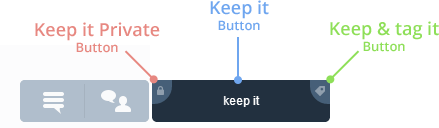
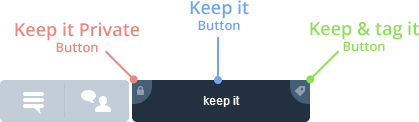
onboarding images updated

diff --git a/kifi-backend/modules/shoebox/public/css/onboarding.css b/kifi-backend/modules/shoebox/public/css/onboarding.css
@@ -1,1 +1,1 @@
-.notransition{-webkit-transition:none!important;-moz-transition:none!important;-o-transition:none!important;-ms-transition:none!important;transition:none!important}.kifi-onboarding-shade{position:fixed;top:0;left:0;width:100%;height:100%;background:#b3bfce;background:rgba(0,40,90,.3);-webkit-opacity:0;-moz-opacity:0;opacity:0;-webkit-transition:all .3s ease;-moz-transition:all .3s ease;-o-transition:all .3s ease;-ms-transition:all .3s ease;transition:all .3s ease}.kifi-onboarding-shade.visible{-webkit-opacity:1;-moz-opacity:1;opacity:1}.kifi-onboarding-modal{position:relative;font-size:24px;top:4%;width:90%;height:27.208333333333332em;min-width:22.916666666666664em;max-width:47.08333333333333em;margin:0 auto;margin-bottom:5%;border:2px solid #b8c5d2;-webkit-border-radius:5px;-webkit-background-clip:padding-box;-moz-border-radius:5px;-moz-background-clip:padding;border-radius:5px;background-clip:padding-box;color:#979a9e;background:#f9fafb;-webkit-box-shadow:.375em .375em 0 rgba(0,40,90,.2);-moz-box-shadow:.375em .375em 0 rgba(0,40,90,.2);box-shadow:.375em .375em 0 rgba(0,40,90,.2);font-family:'Open Sans',sans-serif;-webkit-font-smoothing:antialiased;text-rendering:optimizeLegibility;text-align:center;-webkit-opacity:0;-moz-opacity:0;opacity:0;-webkit-transition:all .3s ease;-moz-transition:all .3s ease;-o-transition:all .3s ease;-ms-transition:all .3s ease;transition:all .3s ease}.kifi-onboarding-modal.visible{-webkit-opacity:1;-moz-opacity:1;opacity:1}@media (max-width:800px){.kifi-onboarding-modal{font-size:19.200000000000003px}}.kifi-onboarding-pic{position:absolute;top:0;left:0;width:5.125em;height:5.125em;border:.8333333333333333em solid #c6d1d8;background:#fff;-webkit-border-radius:100%;-webkit-background-clip:padding-box;-moz-border-radius:100%;-moz-background-clip:padding;border-radius:100%;background-clip:padding-box;-webkit-transition:all .75s ease;-moz-transition:all .75s ease;-o-transition:all .75s ease;-ms-transition:all .75s ease;transition:all .75s ease;-webkit-transform:translateZ(0);-moz-transform:translateZ(0);-o-transform:translateZ(0);-ms-transform:translateZ(0);transform:translateZ(0);-webkit-backface-visibility:hidden;-moz-backface-visibility:hidden;backface-visibility:hidden;-webkit-perspective:1000;-moz-perspective:1000;perspective:1000;-webkit-transform:translate3d(0,0,0);-moz-transform:translate3d(0,0,0);-o-transform:translate3d(0,0,0);-ms-transform:translate3d(0,0,0);transform:translate3d(0,0,0);z-index:1}.kifi-onboarding-modal.page-1 .kifi-onboarding-pic,.kifi-onboarding-modal.page-7 .kifi-onboarding-pic{border-width:.8333333333333333em;left:50%;top:3.25em;margin-left:-3.395833333333333em}.kifi-onboarding-modal.page-2 .kifi-onboarding-pic,.kifi-onboarding-modal.page-3 .kifi-onboarding-pic,.kifi-onboarding-modal.page-4 .kifi-onboarding-pic,.kifi-onboarding-modal.page-5 .kifi-onboarding-pic,.kifi-onboarding-modal.page-6 .kifi-onboarding-pic{border-width:.41666666666666663em;width:5.541666666666666em;height:5.541666666666666em;left:-1.5833333333333333em;top:-1.2083333333333333em}@media (max-width:680px){.kifi-onboarding-modal.page-2 .kifi-onboarding-pic,.kifi-onboarding-modal.page-3 .kifi-onboarding-pic,.kifi-onboarding-modal.page-4 .kifi-onboarding-pic,.kifi-onboarding-modal.page-5 .kifi-onboarding-pic,.kifi-onboarding-modal.page-6 .kifi-onboarding-pic{width:3.333333333333333em;height:3.333333333333333em}}.kifi-onboarding-header-container{position:relative;overflow:hidden}.kifi-onboarding-header{position:relative;display:inline-block;font-family:Raleway,sans-serif;-webkit-font-smoothing:antialiased;text-rendering:optimizeLegibility;font-size:.8333333333333333em;line-height:2em;margin:0 auto;margin-top:2.1em;color:#737980;text-align:center;-webkit-transition:all .75s ease;-moz-transition:all .75s ease;-o-transition:all .75s ease;-ms-transition:all .75s ease;transition:all .75s ease;-webkit-transform:translateZ(0);-moz-transform:translateZ(0);-o-transform:translateZ(0);-ms-transform:translateZ(0);transform:translateZ(0);-webkit-backface-visibility:hidden;-moz-backface-visibility:hidden;backface-visibility:hidden;-webkit-perspective:1000;-moz-perspective:1000;perspective:1000;-webkit-transform:translate3d(0,0,0);-moz-transform:translate3d(0,0,0);-o-transform:translate3d(0,0,0);-ms-transform:translate3d(0,0,0);transform:translate3d(0,0,0)}.kifi-onboarding-modal.page-1 .kifi-onboarding-header,.kifi-onboarding-modal.page-7 .kifi-onboarding-header{top:-2.1em;-webkit-opacity:0;-moz-opacity:0;opacity:0}.kifi-onboarding-header-section{margin:0 1.3em}.kifi-onboarding-section-bar{position:absolute;bottom:0;width:5.050000000000001em;height:.2em;margin-left:1.3em;background:#c9ea9b;-webkit-transition:all .75s ease;-moz-transition:all .75s ease;-o-transition:all .75s ease;-ms-transition:all .75s ease;transition:all .75s ease;-webkit-transform:translateZ(0);-moz-transform:translateZ(0);-o-transform:translateZ(0);-ms-transform:translateZ(0);transform:translateZ(0);-webkit-backface-visibility:hidden;-moz-backface-visibility:hidden;backface-visibility:hidden;-webkit-perspective:1000;-moz-perspective:1000;perspective:1000;-webkit-transform:translate3d(0,0,0);-moz-transform:translate3d(0,0,0);-o-transform:translate3d(0,0,0);-ms-transform:translate3d(0,0,0);transform:translate3d(0,0,0)}@media (max-width:1024px){.kifi-onboarding-header-section{margin:0 .65em}.kifi-onboarding-section-bar{margin-left:.65em}}.kifi-onboarding-section-progress-bar{position:absolute;top:0;left:0;width:50%;height:100%;background:#92c152;-webkit-transition:all .75s ease;-moz-transition:all .75s ease;-o-transition:all .75s ease;-ms-transition:all .75s ease;transition:all .75s ease;-webkit-transform:translateZ(0);-moz-transform:translateZ(0);-o-transform:translateZ(0);-ms-transform:translateZ(0);transform:translateZ(0);-webkit-backface-visibility:hidden;-moz-backface-visibility:hidden;backface-visibility:hidden;-webkit-perspective:1000;-moz-perspective:1000;perspective:1000;-webkit-transform:translate3d(0,0,0);-moz-transform:translate3d(0,0,0);-o-transform:translate3d(0,0,0);-ms-transform:translate3d(0,0,0);transform:translate3d(0,0,0)}.kifi-onboarding-close{position:absolute;top:.9166666666666666em;right:.9166666666666666em;width:.5416666666666666em;height:.5416666666666666em;background-image:url(/assets/img/onboarding/exit.png);z-index:2}@media (-webkit-min-device-pixel-ratio:1.5),(min--moz-device-pixel-ratio:1.5),(-o-min-device-pixel-ratio:3/2),(min-resolution:1.5dppx){.kifi-onboarding-close{background-image:url(/assets/img/onboarding/exit@2x.png);background-size:100% 100%}}.kifi-onboarding-buttons{position:absolute;bottom:.9166666666666666em;left:.9166666666666666em;right:.9166666666666666em}.kifi-onboarding-buttons a{position:absolute;bottom:0;font-size:.75em;padding:.5em 2.722222222222222em;line-height:2.2222222222222223em;-webkit-border-radius:5px;-webkit-background-clip:padding-box;-moz-border-radius:5px;-moz-background-clip:padding;border-radius:5px;background-clip:padding-box;color:#fff;text-decoration:none;-webkit-transition:background .1s ease;-moz-transition:background .1s ease;-o-transition:background .1s ease;-ms-transition:background .1s ease;transition:background .1s ease}.kifi-onboarding-modal.page-2 .kifi-onboarding-buttons a,.kifi-onboarding-modal.page-3 .kifi-onboarding-buttons a,.kifi-onboarding-modal.page-4 .kifi-onboarding-buttons a,.kifi-onboarding-modal.page-5 .kifi-onboarding-buttons a,.kifi-onboarding-modal.page-6 .kifi-onboarding-buttons a{padding:.5555555555555556em 3.1666666666666665em}.kifi-onboarding-modal.page-2 .kifi-onboarding-buttons a.kifi-onboarding-prev,.kifi-onboarding-modal.page-3 .kifi-onboarding-buttons a.kifi-onboarding-prev,.kifi-onboarding-modal.page-4 .kifi-onboarding-buttons a.kifi-onboarding-prev,.kifi-onboarding-modal.page-5 .kifi-onboarding-buttons a.kifi-onboarding-prev,.kifi-onboarding-modal.page-6 .kifi-onboarding-buttons a.kifi-onboarding-prev{padding:.5555555555555556em 2.611111111111111em}.kifi-onboarding-modal.page-7 .kifi-onboarding-buttons a{padding:.5555555555555556em 4.555555555555555em}.kifi-onboarding-modal.page-7 .kifi-onboarding-buttons a.kifi-onboarding-prev{padding:.5555555555555556em 2.611111111111111em}.kifi-onboarding-next-icon,.kifi-onboarding-heart-icon{position:absolute}.kifi-onboarding-next-icon{top:1.0555555555555556em;right:1.0555555555555556em;width:.5555555555555556em;height:1.222222222222222em;background-image:url(/assets/img/onboarding/arrowright.png);background-size:100%;background-repeat:no-repeat;background-position:top left}@media (-webkit-min-device-pixel-ratio:1.5),(min--moz-device-pixel-ratio:1.5),(-o-min-device-pixel-ratio:3/2),(min-resolution:1.5dppx){.kifi-onboarding-next-icon{background-image:url(/assets/img/onboarding/arrowright@2x.png);background-size:100% 100%}}.kifi-onboarding-heart-icon{top:.9166666666666666em;right:2.1666666666666665em;width:1.722222222222222em;height:1.5em;background-image:url(/assets/img/onboarding/heart2.png);background-size:100%;background-repeat:no-repeat;background-position:top left}@media (-webkit-min-device-pixel-ratio:1.5),(min--moz-device-pixel-ratio:1.5),(-o-min-device-pixel-ratio:3/2),(min-resolution:1.5dppx){.kifi-onboarding-heart-icon{background-image:url(/assets/img/onboarding/heart2@2x.png);background-size:100% 100%}}.kifi-onboarding-prev.kifi-onboarding-prev{left:0;color:#fff;background:#b8c5d2}.kifi-onboarding-prev.kifi-onboarding-prev:hover{background:#bfcbd7}.kifi-onboarding-prev.kifi-onboarding-prev:active{background:#a6b1bd}.kifi-onboarding-modal.page-1 .kifi-onboarding-prev.kifi-onboarding-prev{color:#444;background:#d5dde5}.kifi-onboarding-modal.page-1 .kifi-onboarding-prev.kifi-onboarding-prev:hover{background:#d9e0e8}.kifi-onboarding-modal.page-1 .kifi-onboarding-prev.kifi-onboarding-prev:active{background:#c0c7ce}.kifi-onboarding-next{right:0;background:#6ca4f2}.kifi-onboarding-next:hover{background:#7badf3}.kifi-onboarding-next:active{background:#6194da}.kifi-onboarding-modal.page-1 .kifi-onboarding-button-text{position:relative;left:-5px}.kifi-onboarding-view{position:absolute;top:6.25em;bottom:0;left:0;width:100%;overflow:hidden}.kifi-onboarding-views{position:absolute;top:0;left:0;width:700%;height:100%;-webkit-transition:all .75s ease;-moz-transition:all .75s ease;-o-transition:all .75s ease;-ms-transition:all .75s ease;transition:all .75s ease;-webkit-transform:translateZ(0);-moz-transform:translateZ(0);-o-transform:translateZ(0);-ms-transform:translateZ(0);transform:translateZ(0);-webkit-backface-visibility:hidden;-moz-backface-visibility:hidden;backface-visibility:hidden;-webkit-perspective:1000;-moz-perspective:1000;perspective:1000;-webkit-transform:translate3d(0,0,0);-moz-transform:translate3d(0,0,0);-o-transform:translate3d(0,0,0);-ms-transform:translate3d(0,0,0);transform:translate3d(0,0,0)}.kifi-onboarding-views>div{float:left;width:14.285714285714286%;height:100%;text-align:center}.kifi-onboarding-views h1{font-size:1.5em;font-weight:600;padding:0 .8333333333333333em;margin:0 auto;color:#444;line-height:1.1111111111111112em}.kifi-onboarding-views p{font-size:1em;padding:0 1.25em;margin:0 auto;color:#979a9e;line-height:1.5em}.kifi-onboarding-views img{position:relative;display:block;width:100%;margin:0 auto}.kifi-onboarding-welcome h1,.kifi-onboarding-finish h1{margin-top:3.3611111111111107em}.kifi-onboarding-welcome p{max-width:21.25em}.kifi-onboarding-welcome p,.kifi-onboarding-keeping-1 p,.kifi-onboarding-keeping-2 p,.kifi-onboarding-finding p{margin-top:.8333333333333333em}.kifi-onboarding-keeping-1 h1{position:relative;left:.20833333333333331em}.kifi-onboarding-keeping-1 p{position:relative;left:.6666666666666666em}.kifi-onboarding-keeping-1 img{left:-1.2083333333333333em}.kifi-onboarding-keeping-1 p{max-width:30.625em}.kifi-onboarding-keeping-1 img{max-width:21.208333333333332em;max-height:8.166666666666666em}.kifi-onboarding-keeping-2 h1{position:relative;left:.20833333333333331em}.kifi-onboarding-keeping-2 p{position:relative;left:.6666666666666666em}.kifi-onboarding-keeping-2 img{left:-.125em}.kifi-onboarding-keeping-2 img{max-width:18.291666666666664em;max-height:5.333333333333333em}.kifi-onboarding-keeping-1 img,.kifi-onboarding-keeping-2 img,.kifi-onboarding-finding img{margin-top:2.1666666666666665em;padding:0 1.25em}.kifi-onboarding-finding h1{position:relative;left:.16666666666666666em}.kifi-onboarding-finding p{position:relative;left:.5416666666666666em}.kifi-onboarding-finding img{top:-.5em;left:-.9583333333333333em}.kifi-onboarding-finding p{line-height:1.21;margin-top:.9583333333333333em;max-width:23.958333333333332em}.kifi-onboarding-finding img{max-width:30em;max-height:16.458333333333332em}.kifi-onboarding-chatting h1,.kifi-onboarding-organizing h1{text-align:left}.kifi-onboarding-chatting p,.kifi-onboarding-organizing p{line-height:1.21;margin:0;text-align:left;margin-top:1.25em}.kifi-onboarding-chatting p:last-child,.kifi-onboarding-organizing p:last-child{margin-top:1.375em}.kifi-onboarding-chatting h1{max-width:17.22222222222222em}.kifi-onboarding-chatting p{max-width:16.25em}.kifi-onboarding-chatting img{top:-91px;max-width:16.791666666666664em;max-height:20.125em}.kifi-onboarding-chatting .kifi-onboarding-texts{position:relative;left:.8333333333333333em}.kifi-onboarding-chatting .kifi-onboarding-img{position:relative;left:-2.7916666666666665em;top:.7083333333333333em}.kifi-onboarding-chatting .kifi-onboarding-texts,.kifi-onboarding-chatting .kifi-onboarding-img{display:inline-block;max-width:49%;vertical-align:top}.kifi-onboarding-organizing h1{max-width:11.25em}.kifi-onboarding-organizing p{max-width:16.25em}.kifi-onboarding-organizing .kifi-onboarding-texts{position:relative;left:.125em}.kifi-onboarding-organizing img{max-width:19.083333333333332em;max-height:12.958333333333332em}.kifi-onboarding-organizing .kifi-onboarding-img,.kifi-onboarding-organizing .kifi-onboarding-texts{display:inline-block;max-width:49%;vertical-align:top}.kifi-onboarding-finish h1{position:relative;left:.25em}.kifi-onboarding-finish p{font-family:Raleway,sans-serif;-webkit-font-smoothing:antialiased;text-rendering:optimizeLegibility;position:relative;left:.41666666666666663em;font-size:1.5em;line-height:normal;margin-top:.6388888888888888em;max-width:16.944444444444443em}.kifi-onboarding-quote{display:inline-block;margin:0 auto}.kifi-onboarding-author{text-align:right;font-size:.5em;margin-top:1.3333333333333333em;margin-right:8.083333333333332em}.kifi-onboarding-button-texts{display:none}
+.notransition{-webkit-transition:none!important;-moz-transition:none!important;-o-transition:none!important;-ms-transition:none!important;transition:none!important}.kifi-onboarding-shade{position:fixed;top:0;left:0;width:100%;height:100%;background:#b3bfce;background:rgba(0,40,90,.3);-webkit-opacity:0;-moz-opacity:0;opacity:0;-webkit-transition:all .3s ease;-moz-transition:all .3s ease;-o-transition:all .3s ease;-ms-transition:all .3s ease;transition:all .3s ease}.kifi-onboarding-shade.visible{-webkit-opacity:1;-moz-opacity:1;opacity:1}.kifi-onboarding-modal{position:relative;font-size:24px;top:4%;width:90%;height:27.208333333333332em;min-width:22.916666666666664em;max-width:47.08333333333333em;margin:0 auto;margin-bottom:5%;border:2px solid #b8c5d2;-webkit-border-radius:5px;-webkit-background-clip:padding-box;-moz-border-radius:5px;-moz-background-clip:padding;border-radius:5px;background-clip:padding-box;color:#979a9e;background:#f9fafb;-webkit-box-shadow:.375em .375em 0 rgba(0,40,90,.2);-moz-box-shadow:.375em .375em 0 rgba(0,40,90,.2);box-shadow:.375em .375em 0 rgba(0,40,90,.2);font-family:'Open Sans',sans-serif;-webkit-font-smoothing:antialiased;text-rendering:optimizeLegibility;text-align:center;-webkit-opacity:0;-moz-opacity:0;opacity:0;-webkit-transition:all .3s ease;-moz-transition:all .3s ease;-o-transition:all .3s ease;-ms-transition:all .3s ease;transition:all .3s ease}.kifi-onboarding-modal.visible{-webkit-opacity:1;-moz-opacity:1;opacity:1}@media (max-width:800px){.kifi-onboarding-modal{font-size:19.200000000000003px}}.kifi-onboarding-pic{position:absolute;top:0;left:0;width:5.125em;height:5.125em;border:.8333333333333333em solid #c6d1d8;background:#fff;-webkit-border-radius:100%;-webkit-background-clip:padding-box;-moz-border-radius:100%;-moz-background-clip:padding;border-radius:100%;background-clip:padding-box;-webkit-transition:all .75s ease;-moz-transition:all .75s ease;-o-transition:all .75s ease;-ms-transition:all .75s ease;transition:all .75s ease;-webkit-transform:translateZ(0);-moz-transform:translateZ(0);-o-transform:translateZ(0);-ms-transform:translateZ(0);transform:translateZ(0);-webkit-backface-visibility:hidden;-moz-backface-visibility:hidden;backface-visibility:hidden;-webkit-perspective:1000;-moz-perspective:1000;perspective:1000;-webkit-transform:translate3d(0,0,0);-moz-transform:translate3d(0,0,0);-o-transform:translate3d(0,0,0);-ms-transform:translate3d(0,0,0);transform:translate3d(0,0,0);z-index:1}.kifi-onboarding-modal.page-1 .kifi-onboarding-pic,.kifi-onboarding-modal.page-7 .kifi-onboarding-pic{border-width:.8333333333333333em;left:50%;top:3.25em;margin-left:-3.395833333333333em}.kifi-onboarding-modal.page-2 .kifi-onboarding-pic,.kifi-onboarding-modal.page-3 .kifi-onboarding-pic,.kifi-onboarding-modal.page-4 .kifi-onboarding-pic,.kifi-onboarding-modal.page-5 .kifi-onboarding-pic,.kifi-onboarding-modal.page-6 .kifi-onboarding-pic{border-width:.41666666666666663em;width:5.541666666666666em;height:5.541666666666666em;left:-1.5833333333333333em;top:-1.2083333333333333em}@media (max-width:680px){.kifi-onboarding-modal.page-2 .kifi-onboarding-pic,.kifi-onboarding-modal.page-3 .kifi-onboarding-pic,.kifi-onboarding-modal.page-4 .kifi-onboarding-pic,.kifi-onboarding-modal.page-5 .kifi-onboarding-pic,.kifi-onboarding-modal.page-6 .kifi-onboarding-pic{width:3.333333333333333em;height:3.333333333333333em}}.kifi-onboarding-header-container{position:relative;overflow:hidden}.kifi-onboarding-header{position:relative;display:inline-block;font-family:Raleway,sans-serif;-webkit-font-smoothing:antialiased;text-rendering:optimizeLegibility;font-size:.8333333333333333em;line-height:2em;margin:0 auto;margin-top:2.1em;color:#737980;text-align:center;-webkit-transition:all .75s ease;-moz-transition:all .75s ease;-o-transition:all .75s ease;-ms-transition:all .75s ease;transition:all .75s ease;-webkit-transform:translateZ(0);-moz-transform:translateZ(0);-o-transform:translateZ(0);-ms-transform:translateZ(0);transform:translateZ(0);-webkit-backface-visibility:hidden;-moz-backface-visibility:hidden;backface-visibility:hidden;-webkit-perspective:1000;-moz-perspective:1000;perspective:1000;-webkit-transform:translate3d(0,0,0);-moz-transform:translate3d(0,0,0);-o-transform:translate3d(0,0,0);-ms-transform:translate3d(0,0,0);transform:translate3d(0,0,0)}.kifi-onboarding-modal.page-1 .kifi-onboarding-header,.kifi-onboarding-modal.page-7 .kifi-onboarding-header{top:-2.1em;-webkit-opacity:0;-moz-opacity:0;opacity:0}.kifi-onboarding-header-section{margin:0 1.3em}.kifi-onboarding-section-bar{position:absolute;bottom:0;width:5.050000000000001em;height:.2em;margin-left:1.3em;background:#c9ea9b;-webkit-transition:all .75s ease;-moz-transition:all .75s ease;-o-transition:all .75s ease;-ms-transition:all .75s ease;transition:all .75s ease;-webkit-transform:translateZ(0);-moz-transform:translateZ(0);-o-transform:translateZ(0);-ms-transform:translateZ(0);transform:translateZ(0);-webkit-backface-visibility:hidden;-moz-backface-visibility:hidden;backface-visibility:hidden;-webkit-perspective:1000;-moz-perspective:1000;perspective:1000;-webkit-transform:translate3d(0,0,0);-moz-transform:translate3d(0,0,0);-o-transform:translate3d(0,0,0);-ms-transform:translate3d(0,0,0);transform:translate3d(0,0,0)}@media (max-width:1024px){.kifi-onboarding-header-section{margin:0 .65em}.kifi-onboarding-section-bar{margin-left:.65em}}.kifi-onboarding-section-progress-bar{position:absolute;top:0;left:0;width:50%;height:100%;background:#92c152;-webkit-transition:all .75s ease;-moz-transition:all .75s ease;-o-transition:all .75s ease;-ms-transition:all .75s ease;transition:all .75s ease;-webkit-transform:translateZ(0);-moz-transform:translateZ(0);-o-transform:translateZ(0);-ms-transform:translateZ(0);transform:translateZ(0);-webkit-backface-visibility:hidden;-moz-backface-visibility:hidden;backface-visibility:hidden;-webkit-perspective:1000;-moz-perspective:1000;perspective:1000;-webkit-transform:translate3d(0,0,0);-moz-transform:translate3d(0,0,0);-o-transform:translate3d(0,0,0);-ms-transform:translate3d(0,0,0);transform:translate3d(0,0,0)}.kifi-onboarding-close{position:absolute;top:.9166666666666666em;right:.9166666666666666em;width:.5416666666666666em;height:.5416666666666666em;background-image:url(/assets/img/onboarding/exit.png);z-index:2}@media (-webkit-min-device-pixel-ratio:1.5),(min--moz-device-pixel-ratio:1.5),(-o-min-device-pixel-ratio:3/2),(min-resolution:1.5dppx){.kifi-onboarding-close{background-image:url(/assets/img/onboarding/exit@2x.png);background-size:100% 100%}}.kifi-onboarding-buttons{position:absolute;bottom:.9166666666666666em;left:.9166666666666666em;right:.9166666666666666em}.kifi-onboarding-buttons a{position:absolute;bottom:0;font-size:.75em;padding:.5em 2.722222222222222em;line-height:2.2222222222222223em;-webkit-border-radius:5px;-webkit-background-clip:padding-box;-moz-border-radius:5px;-moz-background-clip:padding;border-radius:5px;background-clip:padding-box;color:#fff;text-decoration:none;-webkit-transition:background .1s ease;-moz-transition:background .1s ease;-o-transition:background .1s ease;-ms-transition:background .1s ease;transition:background .1s ease}.kifi-onboarding-modal.page-2 .kifi-onboarding-buttons a,.kifi-onboarding-modal.page-3 .kifi-onboarding-buttons a,.kifi-onboarding-modal.page-4 .kifi-onboarding-buttons a,.kifi-onboarding-modal.page-5 .kifi-onboarding-buttons a,.kifi-onboarding-modal.page-6 .kifi-onboarding-buttons a{padding:.5555555555555556em 3.1666666666666665em}.kifi-onboarding-modal.page-2 .kifi-onboarding-buttons a.kifi-onboarding-prev,.kifi-onboarding-modal.page-3 .kifi-onboarding-buttons a.kifi-onboarding-prev,.kifi-onboarding-modal.page-4 .kifi-onboarding-buttons a.kifi-onboarding-prev,.kifi-onboarding-modal.page-5 .kifi-onboarding-buttons a.kifi-onboarding-prev,.kifi-onboarding-modal.page-6 .kifi-onboarding-buttons a.kifi-onboarding-prev{padding:.5555555555555556em 2.611111111111111em}.kifi-onboarding-modal.page-7 .kifi-onboarding-buttons a{padding:.5555555555555556em 4.555555555555555em}.kifi-onboarding-modal.page-7 .kifi-onboarding-buttons a.kifi-onboarding-prev{padding:.5555555555555556em 2.611111111111111em}.kifi-onboarding-next-icon,.kifi-onboarding-heart-icon{position:absolute}.kifi-onboarding-next-icon{top:1.0555555555555556em;right:1.0555555555555556em;width:.5555555555555556em;height:1.222222222222222em;background-image:url(/assets/img/onboarding/arrowright.png);background-size:100%;background-repeat:no-repeat;background-position:top left}@media (-webkit-min-device-pixel-ratio:1.5),(min--moz-device-pixel-ratio:1.5),(-o-min-device-pixel-ratio:3/2),(min-resolution:1.5dppx){.kifi-onboarding-next-icon{background-image:url(/assets/img/onboarding/arrowright@2x.png);background-size:100% 100%}}.kifi-onboarding-heart-icon{top:.9166666666666666em;right:2.1666666666666665em;width:1.722222222222222em;height:1.5em;background-image:url(/assets/img/onboarding/heart2.png);background-size:100%;background-repeat:no-repeat;background-position:top left}@media (-webkit-min-device-pixel-ratio:1.5),(min--moz-device-pixel-ratio:1.5),(-o-min-device-pixel-ratio:3/2),(min-resolution:1.5dppx){.kifi-onboarding-heart-icon{background-image:url(/assets/img/onboarding/heart2@2x.png);background-size:100% 100%}}.kifi-onboarding-prev.kifi-onboarding-prev{left:0;color:#fff;background:#b8c5d2}.kifi-onboarding-prev.kifi-onboarding-prev:hover{background:#bfcbd7}.kifi-onboarding-prev.kifi-onboarding-prev:active{background:#a6b1bd}.kifi-onboarding-modal.page-1 .kifi-onboarding-prev.kifi-onboarding-prev{color:#444;background:#d5dde5}.kifi-onboarding-modal.page-1 .kifi-onboarding-prev.kifi-onboarding-prev:hover{background:#d9e0e8}.kifi-onboarding-modal.page-1 .kifi-onboarding-prev.kifi-onboarding-prev:active{background:#c0c7ce}.kifi-onboarding-next{right:0;background:#6ca4f2}.kifi-onboarding-next:hover{background:#7badf3}.kifi-onboarding-next:active{background:#6194da}.kifi-onboarding-modal.page-1 .kifi-onboarding-button-text{position:relative;left:-5px}.kifi-onboarding-view{position:absolute;top:6.25em;bottom:0;left:0;width:100%;overflow:hidden}.kifi-onboarding-views{position:absolute;top:0;left:0;width:700%;height:100%;-webkit-transition:all .75s ease;-moz-transition:all .75s ease;-o-transition:all .75s ease;-ms-transition:all .75s ease;transition:all .75s ease;-webkit-transform:translateZ(0);-moz-transform:translateZ(0);-o-transform:translateZ(0);-ms-transform:translateZ(0);transform:translateZ(0);-webkit-backface-visibility:hidden;-moz-backface-visibility:hidden;backface-visibility:hidden;-webkit-perspective:1000;-moz-perspective:1000;perspective:1000;-webkit-transform:translate3d(0,0,0);-moz-transform:translate3d(0,0,0);-o-transform:translate3d(0,0,0);-ms-transform:translate3d(0,0,0);transform:translate3d(0,0,0)}.kifi-onboarding-views>div{float:left;width:14.285714285714286%;height:100%;text-align:center}.kifi-onboarding-views h1{font-size:1.5em;font-weight:600;padding:0 .8333333333333333em;margin:0 auto;color:#444;line-height:1.1111111111111112em}.kifi-onboarding-views p{font-size:1em;padding:0 1.25em;margin:0 auto;color:#979a9e;line-height:1.5em}.kifi-onboarding-views img{position:relative;display:block;width:100%;margin:0 auto}.kifi-onboarding-welcome h1,.kifi-onboarding-finish h1{margin-top:3.3611111111111107em}.kifi-onboarding-welcome p{max-width:21.25em}.kifi-onboarding-welcome p,.kifi-onboarding-keeping-1 p,.kifi-onboarding-keeping-2 p,.kifi-onboarding-finding p{margin-top:.8333333333333333em}.kifi-onboarding-keeping-1 h1{position:relative;left:.20833333333333331em}.kifi-onboarding-keeping-1 p{position:relative;left:.6666666666666666em}.kifi-onboarding-keeping-1 img{left:-1.2083333333333333em}.kifi-onboarding-keeping-1 p{max-width:30.625em}.kifi-onboarding-keeping-1 img{max-width:21.208333333333332em;max-height:8.166666666666666em}.kifi-onboarding-keeping-2 h1{position:relative;left:.20833333333333331em}.kifi-onboarding-keeping-2 p{position:relative;left:.6666666666666666em}.kifi-onboarding-keeping-2 img{left:-.125em}.kifi-onboarding-keeping-2 img{max-width:17.458333333333332em;max-height:5.083333333333333em}.kifi-onboarding-keeping-1 img,.kifi-onboarding-keeping-2 img,.kifi-onboarding-finding img{margin-top:2.1666666666666665em;padding:0 1.25em}.kifi-onboarding-finding h1{position:relative;left:.16666666666666666em}.kifi-onboarding-finding p{position:relative;left:.5416666666666666em}.kifi-onboarding-finding img{top:-.5em;left:-.9583333333333333em}.kifi-onboarding-finding p{line-height:1.21;margin-top:.9583333333333333em;max-width:23.958333333333332em}.kifi-onboarding-finding img{max-width:30em;max-height:16.458333333333332em}.kifi-onboarding-chatting h1,.kifi-onboarding-organizing h1{text-align:left}.kifi-onboarding-chatting p,.kifi-onboarding-organizing p{line-height:1.21;margin:0;text-align:left;margin-top:1.25em}.kifi-onboarding-chatting p:last-child,.kifi-onboarding-organizing p:last-child{margin-top:1.375em}.kifi-onboarding-chatting h1{max-width:17.22222222222222em}.kifi-onboarding-chatting p{max-width:16.25em}.kifi-onboarding-chatting img{top:-91px;max-width:16.791666666666664em;max-height:20.125em}.kifi-onboarding-chatting .kifi-onboarding-texts{position:relative;left:.8333333333333333em}.kifi-onboarding-chatting .kifi-onboarding-img{position:relative;left:-2.7916666666666665em;top:.7083333333333333em}.kifi-onboarding-chatting .kifi-onboarding-texts,.kifi-onboarding-chatting .kifi-onboarding-img{display:inline-block;max-width:49%;vertical-align:top}.kifi-onboarding-organizing h1{max-width:11.25em}.kifi-onboarding-organizing p{max-width:16.25em}.kifi-onboarding-organizing .kifi-onboarding-texts{position:relative;left:.125em}.kifi-onboarding-organizing img{max-width:19.083333333333332em;max-height:12.958333333333332em}.kifi-onboarding-organizing .kifi-onboarding-img,.kifi-onboarding-organizing .kifi-onboarding-texts{display:inline-block;max-width:49%;vertical-align:top}.kifi-onboarding-finish h1{position:relative;left:.25em}.kifi-onboarding-finish p{font-family:Raleway,sans-serif;-webkit-font-smoothing:antialiased;text-rendering:optimizeLegibility;position:relative;left:.41666666666666663em;font-size:1.5em;line-height:normal;margin-top:.6388888888888888em;max-width:16.944444444444443em}.kifi-onboarding-quote{display:inline-block;margin:0 auto}.kifi-onboarding-author{text-align:right;font-size:.5em;margin-top:1.3333333333333333em;margin-right:8.083333333333332em}.kifi-onboarding-button-texts{display:none}

diff --git a/kifi-backend/modules/shoebox/public/css/onboarding.less b/kifi-backend/modules/shoebox/public/css/onboarding.less
@@ -446,8 +446,8 @@
 	}
 
 	img {
-		max-width: 439 * @factor;
-		max-height: 128 * @factor;
+		max-width: 419 * @factor;
+		max-height: 122 * @factor;
 	}
 }
 
